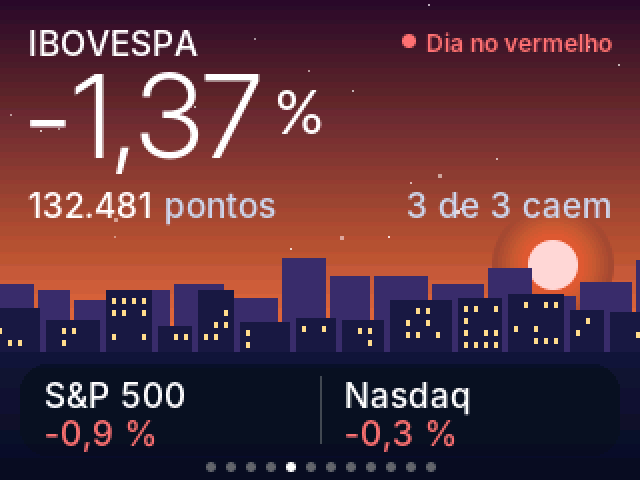
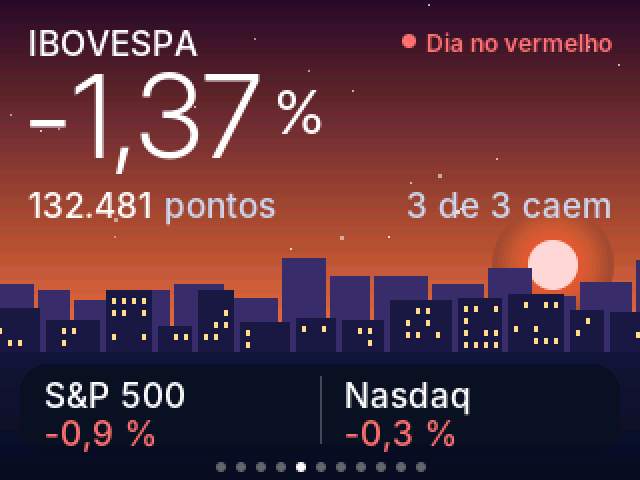
Remove a tela Jogo do time
Claude-Session: https://claude.ai/code/session_013r1tWBcHcwZwkaXJ8MnPzY

Changed region(s): [[0.3125, 0.9375, 0.6875, 1.0]]

diff --git a/src/data/json_parsers.cpp b/src/data/json_parsers.cpp
@@ -1,7 +1,6 @@
 #include <stdio.h>
 #include <string.h>
 #include <stdlib.h>
-#include <strings.h>
 
 #include <ArduinoJson.h>
 
@@ -9,7 +8,7 @@
 
 namespace parsers {
 
-constexpr uint8_t kDeepNesting = 24;  // respostas da ESPN e do Yahoo são bem aninhadas
+constexpr uint8_t kDeepNesting = 24;  // a resposta do Yahoo é bem aninhada
 
 bool parseLocation(const char* json, Place& place) {
   JsonDocument doc;
@@ -156,71 +155,6 @@ bool parseStory(const char* json, char* title, size_t titleSize, uint32_t& score
   snprintf(title, titleSize, "%s", text);
   score = doc["score"] | 0;
   comments = doc["descendants"] | 0;
-  return true;
-}
-
-namespace {
-
-void readSide(JsonObjectConst competitor, MatchSide& side) {
-  JsonObjectConst team = competitor["team"];
-  snprintf(side.name, sizeof(side.name), "%s", team["shortDisplayName"] | "");
-  snprintf(side.abbreviation, sizeof(side.abbreviation), "%s", team["abbreviation"] | "");
-  side.score = atoi(competitor["score"] | "0");
-}
-
-bool readMatch(JsonObjectConst event, MatchInfo& match) {
-  JsonArrayConst competitors = event["competitions"][0]["competitors"];
-  if (competitors.size() < 2) return false;
-  for (JsonObjectConst competitor : competitors) {
-    readSide(competitor, strcmp(competitor["homeAway"] | "", "home") == 0 ? match.home : match.away);
-  }
-  JsonObjectConst type = event["status"]["type"];
-  const char* state = type["state"] | "pre";
-  match.state = strcmp(state, "in") == 0 ? MatchState::Live
-                : strcmp(state, "post") == 0 ? MatchState::Finished : MatchState::Scheduled;
-  snprintf(match.clock, sizeof(match.clock), "%s", type["shortDetail"] | "");
-  match.startsAt = parseIsoDate(event["date"] | "");
-  match.valid = true;
-  return true;
-}
-
-bool isTeam(const MatchSide& side, const char* team) {
-  return strcasecmp(side.name, team) == 0 || strcasecmp(side.abbreviation, team) == 0;
-}
-
-}  // namespace
-
-bool parseScoreboard(const char* json, const char* favoriteTeam, MatchData& data) {
-  JsonDocument filter;
-  JsonObject event = filter["events"][0].to<JsonObject>();
-  event["date"] = true;
-  event["status"]["type"]["state"] = event["status"]["type"]["shortDetail"] = true;
-  JsonObject competitor = event["competitions"][0]["competitors"][0].to<JsonObject>();
-  competitor["homeAway"] = competitor["score"] = true;
-  competitor["team"]["shortDisplayName"] = competitor["team"]["abbreviation"] = true;
-
-  JsonDocument doc;
-  if (deserializeJson(doc, json, DeserializationOption::Filter(filter), DeserializationOption::NestingLimit(kDeepNesting))) {
-    return false;
-  }
-
-  MatchData result;
-  snprintf(result.league, sizeof(result.league), "%s", data.league);
-  for (JsonObjectConst item : doc["events"].as<JsonArrayConst>()) {
-    MatchInfo match;
-    if (!readMatch(item, match)) continue;
-    const bool favorite = isTeam(match.home, favoriteTeam) || isTeam(match.away, favoriteTeam);
-    if (!result.main.valid) {
-      result.main = match;
-    } else if (favorite) {
-      if (result.otherCount < kMaxOtherMatches) result.others[result.otherCount++] = result.main;
-      result.main = match;
-    } else if (result.otherCount < kMaxOtherMatches) {
-      result.others[result.otherCount++] = match;
-    }
-  }
-  if (!result.main.valid) return false;
-  data = result;
   return true;
 }
 

diff --git a/tools/test_parsers.cpp b/tools/test_parsers.cpp
@@ -1,6 +1,6 @@
 // Testa os parsers no PC com respostas de exemplo (ou reais, salvas em arquivo).
 // Uso: test_parsers [pasta com weather.json, ptax.json, crypto.json, stock.json, news.xml, video.xml,
-//                    stories.json, story.json, scoreboard.json, aircraft.json, repo.json]
+//                    stories.json, story.json, aircraft.json, repo.json]
 #include <cassert>
 #include <cmath>
 #include <cstdio>
@@ -51,14 +51,6 @@ constexpr char kVideo[] = R"(<feed><title>Canal de Exemplo</title>
 
 constexpr char kStories[] = "[50582069,50593925,50593199,50593125]";
 constexpr char kStory[] = R"({"by":"x","descendants":133,"id":1,"kids":[1,2],"score":538,"title":"Hello \"HN\"","type":"story"})";
-
-constexpr char kScoreboard[] = R"({"leagues":[{"name":"Brazilian Serie A"}],"events":[
-{"date":"2026-11-21T19:30Z","status":{"type":{"state":"post","shortDetail":"FT"}},"competitions":[{"competitors":[
-{"homeAway":"home","score":"2","team":{"abbreviation":"SAN","shortDisplayName":"Santos"}},
-{"homeAway":"away","score":"0","team":{"abbreviation":"BAH","shortDisplayName":"Bahia"}}]}]},
-{"date":"2026-11-21T21:00Z","status":{"type":{"state":"in","shortDetail":"67'"}},"competitions":[{"competitors":[
-{"homeAway":"away","score":"1","team":{"abbreviation":"FLA","shortDisplayName":"Flamengo"}},
-{"homeAway":"home","score":"3","team":{"abbreviation":"PAL","shortDisplayName":"Palmeiras"}}]}]}]})";
 
 constexpr char kAircraft[] = R"({"ac":[{"flight":"TAM3321 ","t":"A320","alt_baro":17000,"dst":17.0,"dir":40.5},
 {"flight":"GLO1513 ","t":"B38M","alt_baro":"ground","dst":5.4,"dir":269.3},{"hex":"x"}],"total":3})";
@@ -135,17 +127,6 @@ int main(int argc, char** argv) {
   assert(parsers::parseStory(load(dir, "story.json", kStory).c_str(), title, sizeof(title), score, comments));
   printf("hacker news: %u, %u... | %s (%u pontos, %u comentarios)\n", ids[0], ids[1], title, score, comments);
   if (samples) assert(ids[2] == 50593199 && score == 538 && comments == 133 && strcmp(title, "Hello \"HN\"") == 0);
-
-  MatchData match;
-  assert(parsers::parseScoreboard(load(dir, "scoreboard.json", kScoreboard).c_str(), "Flamengo", match));
-  printf("jogo: %s %u x %u %s [%s] estado=%d inicio=%lld, outros=%u\n", match.main.home.abbreviation,
-         match.main.home.score, match.main.away.score, match.main.away.name, match.main.clock,
-         static_cast<int>(match.main.state), match.main.startsAt, match.otherCount);
-  if (samples) {
-    assert(strcmp(match.main.home.abbreviation, "PAL") == 0 && match.main.home.score == 3 && match.main.away.score == 1);
-    assert(match.main.state == MatchState::Live && match.otherCount == 1 && match.others[0].home.score == 2);
-    assert(match.others[0].startsAt == 1795289400);
-  }
 
   RadarData radar;
   assert(parsers::parseAircraft(load(dir, "aircraft.json", kAircraft).c_str(), radar));

diff --git a/include/app_config.h b/include/app_config.h
@@ -10,8 +10,8 @@ namespace config {
 // Telas exibidas, na ordem de rotação (remova as que não quiser)
 constexpr ui::Screen kScreens[] = {
     ui::Screen::Clock, ui::Screen::Weather, ui::Screen::Currency,   ui::Screen::Crypto, ui::Screen::Stocks,
-    ui::Screen::Match, ui::Screen::News,    ui::Screen::HackerNews, ui::Screen::Video,  ui::Screen::Radar,
-    ui::Screen::Repo,  ui::Screen::Battery};
+    ui::Screen::News,  ui::Screen::HackerNews, ui::Screen::Video, ui::Screen::Radar, ui::Screen::Repo,
+    ui::Screen::Battery};
 constexpr uint32_t kScreenRotationSeconds = 15;  // 0 = troca apenas pelo toque
 
 // Tela
@@ -61,11 +61,6 @@ constexpr char kNewsSource[] = "g1";
 // YouTube: ID do canal (começa com "UC"); vazio desativa a tela
 constexpr char kYoutubeChannelId[] = "";
 
-// Jogo do time (ESPN): bra.1 = Brasileirão, eng.1 = Premier League, esp.1 = La Liga, uefa.champions = Champions
-constexpr char kLeagueCode[] = "bra.1";
-constexpr char kLeagueName[] = "Brasileirão";
-constexpr char kFavoriteTeam[] = "";  // nome ou sigla (ex.: "Flamengo" ou "FLA"); vazio = primeiro jogo da rodada
-
 // Radar
 constexpr float kRadarRadiusKm = 40;
 
@@ -81,7 +76,6 @@ constexpr uint32_t kStocksIntervalMs = 5 * kMinuteMs;
 constexpr uint32_t kNewsIntervalMs = 2 * kMinuteMs;   // avança uma manchete por ciclo
 constexpr uint32_t kVideoIntervalMs = 2 * kMinuteMs;  // avança um vídeo por ciclo
 constexpr uint32_t kHackerNewsIntervalMs = 5 * kMinuteMs;
-constexpr uint32_t kMatchIntervalMs = 1 * kMinuteMs;
 constexpr uint32_t kRadarIntervalMs = 1 * kMinuteMs;
 constexpr uint32_t kRepoIntervalMs = 10 * kMinuteMs;  // a API sem token permite 60 consultas por hora
 constexpr uint32_t kRetryIntervalMs = 30UL * 1000;

diff --git a/tools/simulator/main.cpp b/tools/simulator/main.cpp
@@ -16,7 +16,7 @@ namespace {
 
 constexpr int kWidth = 320;
 constexpr int kHeight = 240;
-constexpr uint8_t kScreenCount = 12;
+constexpr uint8_t kScreenCount = 11;
 
 LGFX_Sprite canvas;
 std::string outputDir;
@@ -95,11 +95,6 @@ int main(int argc, char** argv) {
   strcpy(state.hackerNews.headlines[1], "Why embedded fonts still matter");
   strcpy(state.hackerNews.headlines[2], "The surprising cost of TLS handshakes on microcontrollers");
   strcpy(state.hackerNews.detail, "538 pontos · 133 comentários");
-  state.match.main = {{"Palmeiras", "PAL", 1}, {"Flamengo", "FLA", 1}, MatchState::Live, "67'", 0, true};
-  state.match.others[0] = {{"Santos", "SAN", 2}, {"Bahia", "BAH", 0}, MatchState::Finished, "", 0, true};
-  state.match.others[1] = {{"Grêmio", "GRE", 0}, {"Vasco", "VAS", 0}, MatchState::Scheduled, "", state.nowEpoch + 7200, true};
-  state.match.otherCount = 2;
-  strcpy(state.match.league, "Brasileirão");
   state.radar = {{{"GLO1513", "B38M", 19.0f, 269, 2034}, {"TAM3321", "A320", 31.5f, 40, 5200},
                   {"AZU4410", "E195", 12.2f, 150, 900}, {"PTABC", "C172", 36.0f, 310, 450}}, 4, 16, 40, true};
   state.repo = {"espressif/arduino-esp32", 15234, 412, 37, BuildState::Passed, true};
@@ -127,7 +122,6 @@ int main(int argc, char** argv) {
   save(ui::Screen::Battery, state, "battery");
   state.battery = {4.12f, 91, BatteryTrend::Charging, 32.0f, 17, true};
   save(ui::Screen::Battery, state, "alt_battery_charging");
-  save(ui::Screen::Match, state, "match");
   save(ui::Screen::HackerNews, state, "hacker_news");
   save(ui::Screen::Radar, state, "radar");
   save(ui::Screen::Repo, state, "repo");

diff --git a/src/ui/ui_screens.h b/src/ui/ui_screens.h
@@ -9,7 +9,7 @@
 namespace ui {
 
 enum class Screen : uint8_t {
-  Clock, Weather, Currency, Crypto, Stocks, Match, News, HackerNews, Video, Radar, Repo, Battery
+  Clock, Weather, Currency, Crypto, Stocks, News, HackerNews, Video, Radar, Repo, Battery
 };
 
 struct HeadlineStyle {
@@ -28,7 +28,6 @@ struct DashboardState {
   StocksData stocks;
   NewsData news;
   NewsData hackerNews;
-  MatchData match;
   RadarData radar;
   RepoData repo;
   BatteryData battery;
@@ -48,7 +47,6 @@ void drawCurrencyScreen(LovyanGFX& gfx, const CurrencyData& currency);
 void drawCryptoScreen(LovyanGFX& gfx, const CryptoData& crypto);
 void drawStocksScreen(LovyanGFX& gfx, const StocksData& stocks);
 void drawHeadlineScreen(LovyanGFX& gfx, const NewsData& news, const HeadlineStyle& style);
-void drawMatchScreen(LovyanGFX& gfx, const MatchData& match);
 void drawRadarScreen(LovyanGFX& gfx, const RadarData& radar);
 void drawRepoScreen(LovyanGFX& gfx, const RepoData& repo);
 void drawBatteryScreen(LovyanGFX& gfx, const BatteryData& battery);

diff --git a/src/model/dashboard_data.h b/src/model/dashboard_data.h
@@ -7,7 +7,6 @@ constexpr uint8_t kMaxCoins = 4;
 constexpr uint8_t kMaxStocks = 3;
 constexpr uint8_t kNewsVisible = 3;
 constexpr uint8_t kNewsTitleSize = 160;
-constexpr uint8_t kMaxOtherMatches = 2;
 constexpr uint8_t kMaxAircraft = 8;
 
 struct CurrencyQuote {
@@ -67,30 +66,6 @@ struct NewsData {
   uint8_t index = 0;
   uint8_t total = 0;
   bool valid = false;
-};
-
-enum class MatchState : uint8_t { Scheduled, Live, Finished };
-
-struct MatchSide {
-  char name[20] = "";
-  char abbreviation[6] = "";
-  uint8_t score = 0;
-};
-
-struct MatchInfo {
-  MatchSide home;
-  MatchSide away;
-  MatchState state = MatchState::Scheduled;
-  char clock[12] = "";      // tempo de jogo quando ao vivo
-  long long startsAt = 0;   // epoch UTC
-  bool valid = false;
-};
-
-struct MatchData {
-  MatchInfo main;
-  MatchInfo others[kMaxOtherMatches];
-  uint8_t otherCount = 0;
-  char league[32] = "";
 };
 
 struct Aircraft {

diff --git a/src/main.cpp b/src/main.cpp
@@ -66,7 +66,6 @@ Service services[] = {
     {ui::Screen::News, config::kNewsIntervalMs, [] { return refresh(&ui::DashboardState::news, services::fetchNews); }},
     {ui::Screen::Video, config::kVideoIntervalMs, [] { return refresh(&ui::DashboardState::video, services::fetchVideo); }},
     {ui::Screen::HackerNews, config::kHackerNewsIntervalMs, [] { return refresh(&ui::DashboardState::hackerNews, services::fetchHackerNews); }},
-    {ui::Screen::Match, config::kMatchIntervalMs, [] { return refresh(&ui::DashboardState::match, services::fetchMatch); }},
     {ui::Screen::Radar, config::kRadarIntervalMs, [] { return refresh(&ui::DashboardState::radar, services::fetchRadar); }},
     {ui::Screen::Repo, config::kRepoIntervalMs, [] { return refresh(&ui::DashboardState::repo, services::fetchRepo); }},
 };

diff --git a/src/data/data_services.cpp b/src/data/data_services.cpp
@@ -203,14 +203,6 @@ bool fetchHackerNews(NewsData& news) {
   return news.valid;
 }
 
-bool fetchMatch(MatchData& match) {
-  char url[112];
-  snprintf(url, sizeof(url), "https://site.api.espn.com/apis/site/v2/sports/soccer/%s/scoreboard", config::kLeagueCode);
-  snprintf(match.league, sizeof(match.league), "%s", config::kLeagueName);
-  String body;
-  return http::get(url, body) && parsers::parseScoreboard(body.c_str(), config::kFavoriteTeam, match);
-}
-
 bool fetchRadar(RadarData& radar) {
   char url[96];
   snprintf(url, sizeof(url), "https://api.adsb.lol/v2/point/%.4f/%.4f/%.0f", place().latitude, place().longitude,

diff --git a/src/ui/ui_screens.cpp b/src/ui/ui_screens.cpp
@@ -18,7 +18,6 @@ void drawScreen(LovyanGFX& gfx, Screen screen, const DashboardState& state) {
     case Screen::HackerNews:
       drawHeadlineScreen(gfx, state.hackerNews, {"TOPO", "Hacker News", "Aguardando o Hacker News", 0xFF7A1Au, 0x3A1E08u, 0x140C06u});
       break;
-    case Screen::Match:    drawMatchScreen(gfx, state.match); break;
     case Screen::Radar:    drawRadarScreen(gfx, state.radar); break;
     case Screen::Repo:     drawRepoScreen(gfx, state.repo); break;
     case Screen::Battery:  drawBatteryScreen(gfx, state.battery); break;

diff --git a/src/data/data_parsers.h b/src/data/data_parsers.h
@@ -31,9 +31,6 @@ bool parseStock(const char* json, StockQuote& stock);
 uint8_t parseStoryIds(const char* json, uint32_t* ids, uint8_t maxIds);
 bool parseStory(const char* json, char* title, size_t titleSize, uint32_t& score, uint32_t& comments);
 
-// ESPN: destaca o jogo do time informado (ou o primeiro da rodada)
-bool parseScoreboard(const char* json, const char* favoriteTeam, MatchData& match);
-
 // adsb.lol: aeronaves ordenadas por distância
 bool parseAircraft(const char* json, RadarData& radar);
 

diff --git a/src/data/data_services.h b/src/data/data_services.h
@@ -18,7 +18,6 @@ bool fetchStocks(StocksData& stocks);
 bool fetchNews(NewsData& news);
 bool fetchVideo(VideoData& video);
 bool fetchHackerNews(NewsData& news);
-bool fetchMatch(MatchData& match);
 bool fetchRadar(RadarData& radar);
 bool fetchRepo(RepoData& repo);
 

diff --git a/README.md b/README.md
@@ -9,7 +9,6 @@ Firmware para o módulo **ES3C28P** (ESP32-S3 + tela IPS 2.8" 240x320 com toque 
 | Dólar | Cotação PTAX, variação do dia, barras da semana e euro | Banco Central (PTAX) |
 | Cripto | Preço e variação em 24 h (até 4 moedas) | CoinGecko |
 | Bolsa | Ibovespa, S&P 500 e Nasdaq (ou ações) | Yahoo Finance |
-| Jogo do time | Placar, tempo de jogo e outros jogos da rodada | ESPN |
 | Notícias | Manchete e duas chamadas seguintes | RSS (g1 por padrão) |
 | Hacker News | Histórias do topo, pontos e comentários | API do Hacker News |
 | YouTube | Vídeos recentes do canal: miniatura, título e idade | RSS do canal |
@@ -51,7 +50,6 @@ Se a porta não aparecer, entre em modo de gravação: segure **BOOT**, pression
 | `kTimezone`, `kSouthernHemisphere` | Fuso horário de reserva e estação do ano |
 | `kCoins`, `kCryptoCurrency` | Moedas da tela Cripto |
 | `kStocks` | Ativos da tela Bolsa (ações da B3 terminam em `.SA`) |
-| `kLeagueCode`, `kLeagueName`, `kFavoriteTeam` | Campeonato e time em destaque |
 | `kNewsFeedUrl`, `kNewsSource` | Feed RSS de notícias |
 | `kYoutubeChannelId` | Canal do YouTube; **vazio desativa a tela** |
 | `kRadarRadiusKm` | Raio do radar em torno de `kLatitude`/`kLongitude` |
